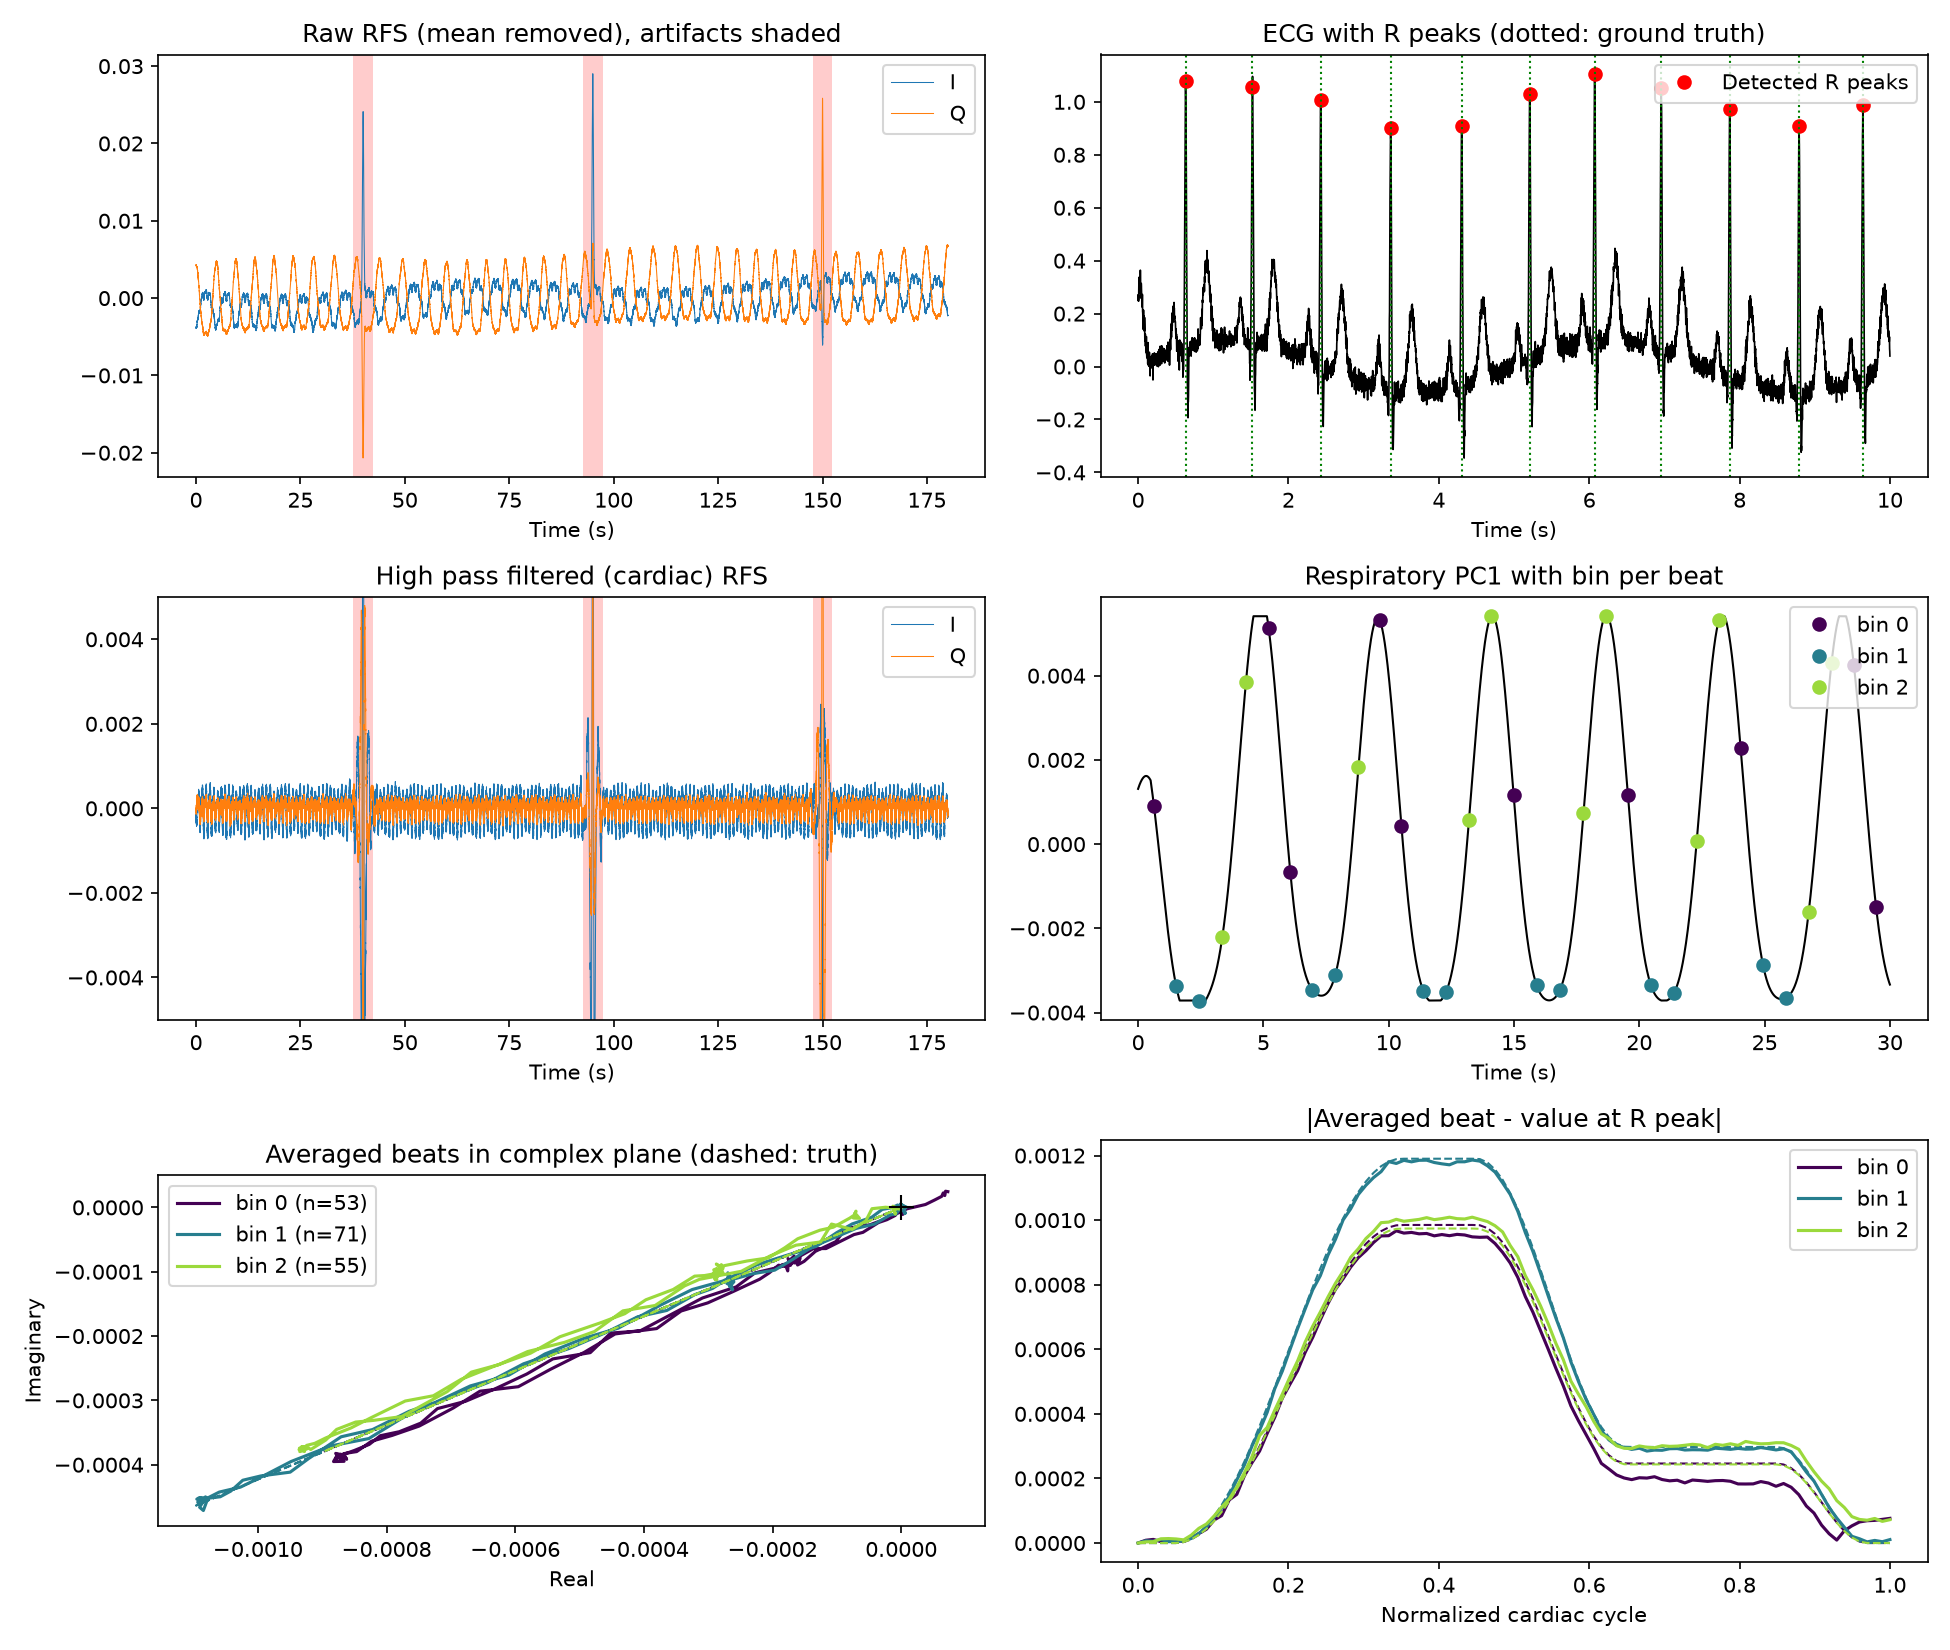
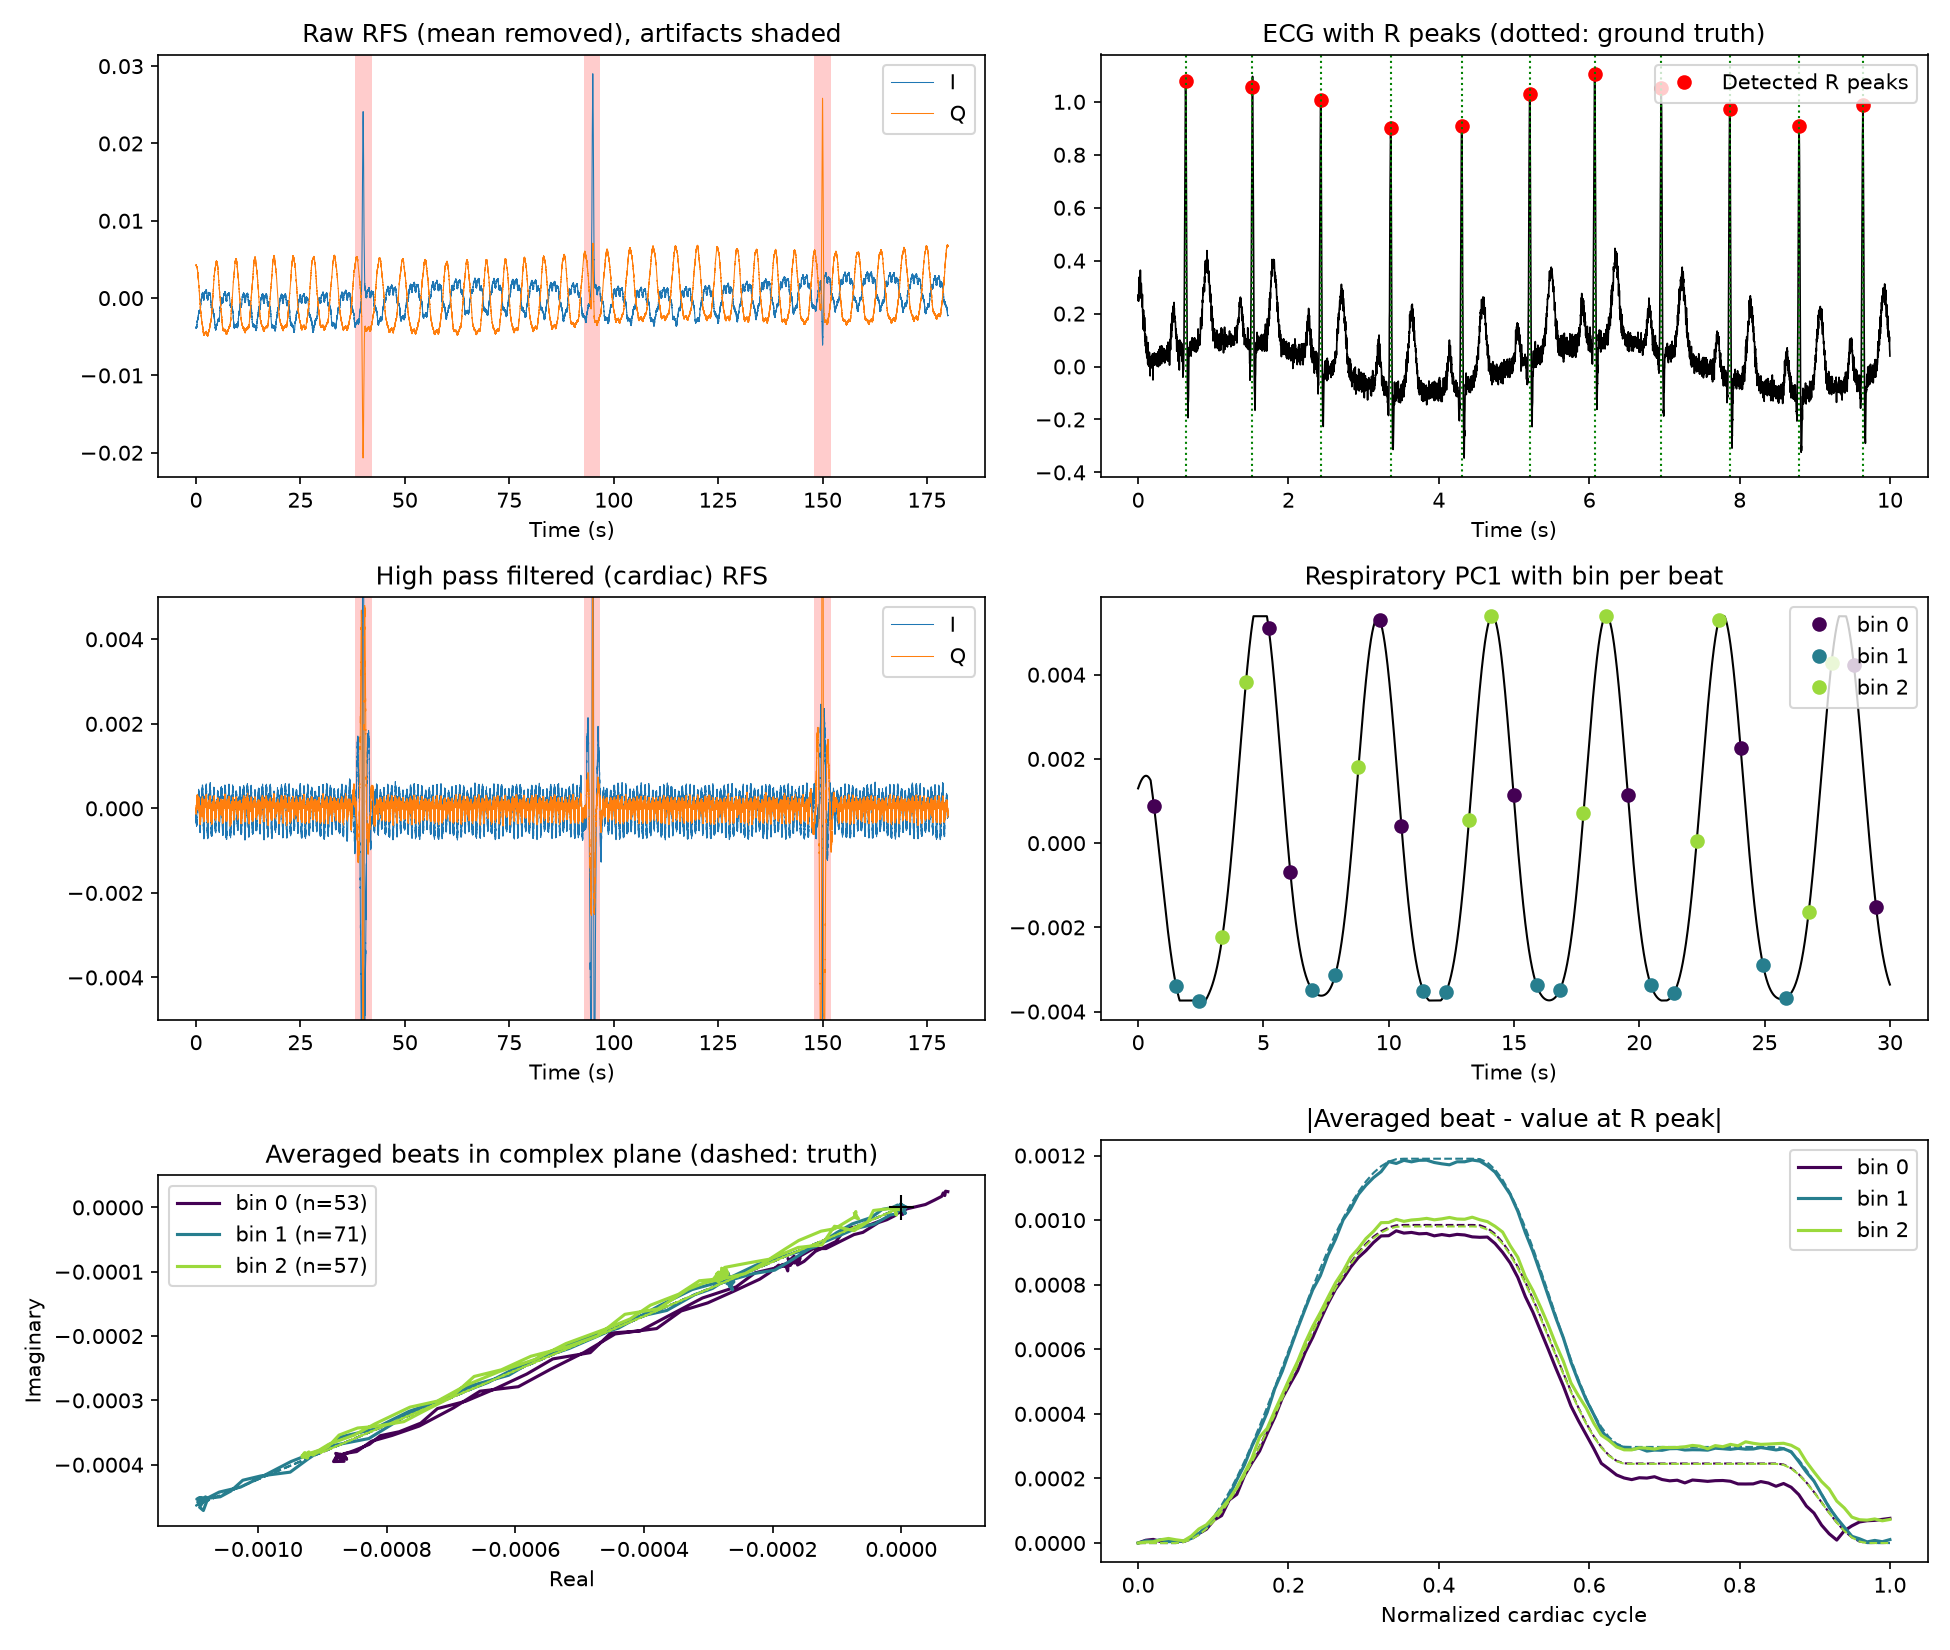
Update artifact detection

diff --git a/rfs_pipeline.py b/rfs_pipeline.py
@@ -76,11 +76,17 @@ def segment_beats(x, r_peaks, n_out=100):
 # 4. Artifact detection ------------------------------------------------------
 
 def detect_artifacts(x, fs, threshold=5.0, buffer_s=1.0):
-    """Boolean mask, True where |x - mean(x)| exceeds threshold times its median.
-
-    Every outlier is extended by buffer_s seconds on both sides.
+    """Boolean mask, True where the Hilbert envelope exceeds threshold times its median.
+ 
+    For complex input the envelope is computed from the analytic signals of the
+    real and imaginary parts, sqrt(|H(I)|^2 + |H(Q)|^2), which is invariant to a
+    rotation of the IQ plane. Every outlier is extended by buffer_s seconds on both sides.
     """
-    envelope = np.abs(x - np.mean(x))
+    x = np.asarray(x) - np.mean(x)
+    if np.iscomplexobj(x):
+        envelope = np.sqrt(np.abs(hilbert(x.real)) ** 2 + np.abs(hilbert(x.imag)) ** 2)
+    else:
+        envelope = np.abs(hilbert(x))
     outliers = envelope > threshold * np.median(envelope)
     buffer = int(round(buffer_s * fs))
     return np.convolve(outliers.astype(float), np.ones(2 * buffer + 1), mode="same") > 0
